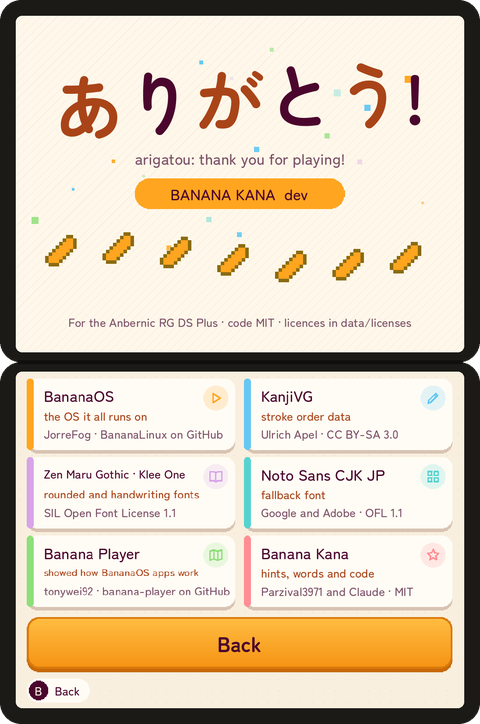
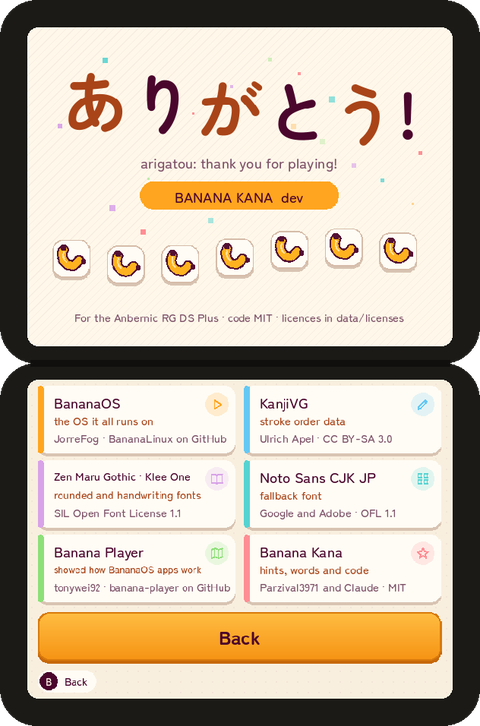
Unify Kitsu artwork across pet screens

diff --git a/src/app.cpp b/src/app.cpp
@@ -2022,7 +2022,9 @@ void App::drawPet() {
   const int st = prog.petStage(), days = prog.pet.days;
   header("きつね · Your fox", std::to_string(days) + (days == 1 ? " day practised" : " days practised"));
   card(top, SDL_Rect{16, 62, 272, 400}, 20);
-  drawFox(top, 152, 446, 330, petLook(st == 0 ? FoxMood::Awake : prog.petAwake() ? FoxMood::Awake : FoxMood::Asleep));
+  const FoxLook portrait = petLook(st == 0 ? FoxMood::Awake : prog.petAwake() ? FoxMood::Awake : FoxMood::Asleep);
+  if (!drawHomeFoxSprite(top, homeFoxSprite, SDL_Rect{36, 142, 232, 232}, portrait))
+    drawFox(top, 152, 446, 330, portrait);
   const int X = 306, W = 318;
   setBold(true); drawText(top, prog.pet.name, SDL_Rect{X, 66, W, 56}, FG, F_MID, A_LEFT); setBold(false);
   std::string line = PET_STAGE_NAME[st];
@@ -2052,7 +2054,8 @@ void App::drawPet() {
     if (have1) {
       card(bot, r, 18, wearing ? mix(PANEL, ACCENT, 0.18f) : PANEL);
       FoxLook L; L.stage = 1; L.mood = FoxMood::Awake; L.accessory = i; L.t = 0;
-      drawFox(bot, r.x + r.w / 2, r.y + 92, 96, L);
+      if (!drawHomeFoxSprite(bot, homeFoxSpriteBot, SDL_Rect{r.x + 34, r.y + 8, 76, 76}, L))
+        drawFox(bot, r.x + r.w / 2, r.y + 92, 96, L);
       setBold(true); drawText(bot, acc[i].name, SDL_Rect{r.x + 4, r.y + 98, r.w - 8, 22}, FG, F_MICRO); setBold(false);
       drawText(bot, wearing ? "wearing" : "tap to wear", SDL_Rect{r.x + 4, r.y + 116, r.w - 8, 20}, wearing ? ACCENT_TXT : DIM, F_MICRO);
     } else {
@@ -2074,7 +2077,9 @@ void App::drawPetEvolve() {
   const int st = prog.petStage();
   const bool hatched = prog.pet.seenStage < 1;
   setBold(true); drawText(top, hatched ? "うまれた! " + prog.pet.name + " hatched" : "しんか! " + prog.pet.name + " evolved", SDL_Rect{20, 14, 600, 56}, FG, F_MID); setBold(false);
-  drawFox(top, 320, 462, 360, petLook(FoxMood::Happy));
+  const FoxLook look = petLook(FoxMood::Happy);
+  if (!drawHomeFoxSprite(top, homeFoxSprite, SDL_Rect{190, 142, 260, 260}, look))
+    drawFox(top, 320, 462, 360, look);
   card(bot, SDL_Rect{24, 24, 592, 270}, 22);
   setBold(true); drawText(bot, PET_STAGE_NAME[st], SDL_Rect{40, 40, 560, 52}, FG, F_MID); setBold(false);
   drawWrapped(bot, PET_STAGE_TEXT[st], SDL_Rect{60, 100, 520, 90}, DIM, F_TINY, A_CENTER);
@@ -2094,7 +2099,9 @@ void App::drawPetName() {
   if (typed.empty()) drawText(top, "type with the kana keys", box, DIM, F_TINY);
   else drawText(top, typed, box, FG, F_BIG);
   drawText(top, "Up to " + std::to_string(PET_NAME_MAX) + " kana · now: " + prog.pet.name, SDL_Rect{20, 244, 600, 30}, DIM, F_MICRO);
-  FoxLook L = petLook(FoxMood::Happy); drawFox(top, 320, 466, 180, L);
+  FoxLook L = petLook(FoxMood::Happy);
+  if (!drawHomeFoxSprite(top, homeFoxSprite, SDL_Rect{240, 282, 160, 160}, L))
+    drawFox(top, 320, 466, 180, L);
   drawKanaKeyboard();
 }
 
@@ -2987,6 +2994,21 @@ void App::drawSettingsGroup() {
 
 void App::drawCredits() {
   const float t = SDL_GetTicks() / 1000.f;
+  auto creditBanana = [&](int x, int y) {  // polished crescent badge, matching the Kitsu icon's plum/cream palette
+    SDL_Rect badge{x, y, 58, 58};
+    fillRound(top, SDL_Rect{x, y + 4, 58, 58}, 17, CARD_SH);
+    boxRound(top, badge, 17, PANEL, LINE, 2);
+    Col peel = hex(0xFFB21F), light = hex(0xFFE19A), edge = hex(0x541033);
+    SDL_Rect fruit{x + 8, y + 7, 42, 43};
+    const Stroke curve{{24, 21}, {18, 36}, {20, 54}, {29, 70}, {43, 80}, {61, 82}, {76, 72}, {84, 60}};
+    drawStrokeIn(top, curve, fruit, edge, 16.f);
+    drawStrokeIn(top, curve, fruit, peel, 11.f);
+    // A short cream glint reads as peel, while the plum stem and flower tip keep the silhouette unmistakably banana-like.
+    const Stroke glint{{24, 30}, {22, 44}, {26, 57}, {35, 67}};
+    drawStrokeIn(top, glint, fruit, light, 2.5f);
+    fillRound(top, SDL_Rect{x + 13, y + 10, 9, 7}, 3, edge);
+    fillRound(top, SDL_Rect{x + 44, y + 29, 7, 9}, 3, edge);
+  };
   // top: twinkling confetti, a wavy thank-you and a banana parade
   Col conf[MC_COUNT];
   for (int m = 0; m < MC_COUNT; m++) conf[m] = modeCol(ModeCol(m));
@@ -3009,7 +3031,7 @@ void App::drawCredits() {
   drawText(top, "BANANA KANA  " + version, SDL_Rect{170, 232, 300, 44}, ON_ACCENT, F_TINY);
   for (int i = 0; i < 7; i++) {
     int bx = 40 + i * 82, by = 318 + int(14 * std::sin(t * 3.f + i * 0.9f));
-    iconBanana(top, bx + 2, by + 4, 5);
+    creditBanana(bx - 2, by - 2);
   }
   drawText(top, "For the Anbernic RG DS Plus · code MIT · licences in data/licenses",
            SDL_Rect{20, 420, 600, 34}, DIM, F_MICRO);

diff --git a/src/app.h b/src/app.h
@@ -59,6 +59,7 @@ struct Missed { std::string key, prompt, answer, said; };
 struct App {
   Win top, bot; Data data; Progress prog; std::string statePath, dataDir;
   SDL_Texture* homeFoxSprite = nullptr;
+  SDL_Texture* homeFoxSpriteBot = nullptr;  // same atlas, created for the bottom-screen renderer
   SDL_Texture* brandIcon = nullptr;  // shared Kitsu/banana-tail mark, loaded for the top-screen renderer
   std::mt19937 rng{std::random_device{}()};
   Screen screen = Screen::Home; bool running = true, paused = false; int pauseSel = 0;

diff --git a/src/main.cpp b/src/main.cpp
@@ -258,6 +258,7 @@ int main(int argc, char** argv) {
   }
   app.brandIcon = loadBmpTexture(app.top, dataDir + "/brand-icon.bmp");
   app.homeFoxSprite = loadHomeFoxSprite(app.top, dataDir);
+  app.homeFoxSpriteBot = loadHomeFoxSprite(app.bot, dataDir);
   SDL_ShowCursor(SDL_ENABLE);
   if (!loadFonts(dataDir, app.top.scale, &err)) { fprintf(stderr, "font: %s\n", err.c_str()); return 3; }
   setKanaHand(app.prog.settings.kanaHand);

diff --git a/CHANGELOG.md b/CHANGELOG.md
@@ -8,7 +8,8 @@ the release notes come from the matching section below.
 - Rebuilt every screen around the approved warm-ivory, deep-plum handheld design while keeping the two-screen
   640×480 layouts, controller focus, touch targets and progress format intact.
 - New Kitsu brand icon across the BananaOS shelf, Welcome/unlock/Credits screens and README, with a banana-curved tail
-  and kana tile. Home Kitsu keeps the refined pixel-art treatment and now displays equipped accessories.
+  and kana tile. Home and Your fox now consistently use the refined pixel-art Kitsu, including equipped accessories.
+- Credits replaces the old blocky banana parade with smooth, outlined banana badges that match the redesigned palette.
 - Home has a visible, focusable Quit button and a Cancel-first confirmation dialog; F + START remains available.
 - Seasonal backgrounds still follow the calendar (or a fixed override) and motion still follows the user's setting.
 - Home previews the next session's new/review balance and duration; Quick, Standard, Study and Review-only presets
